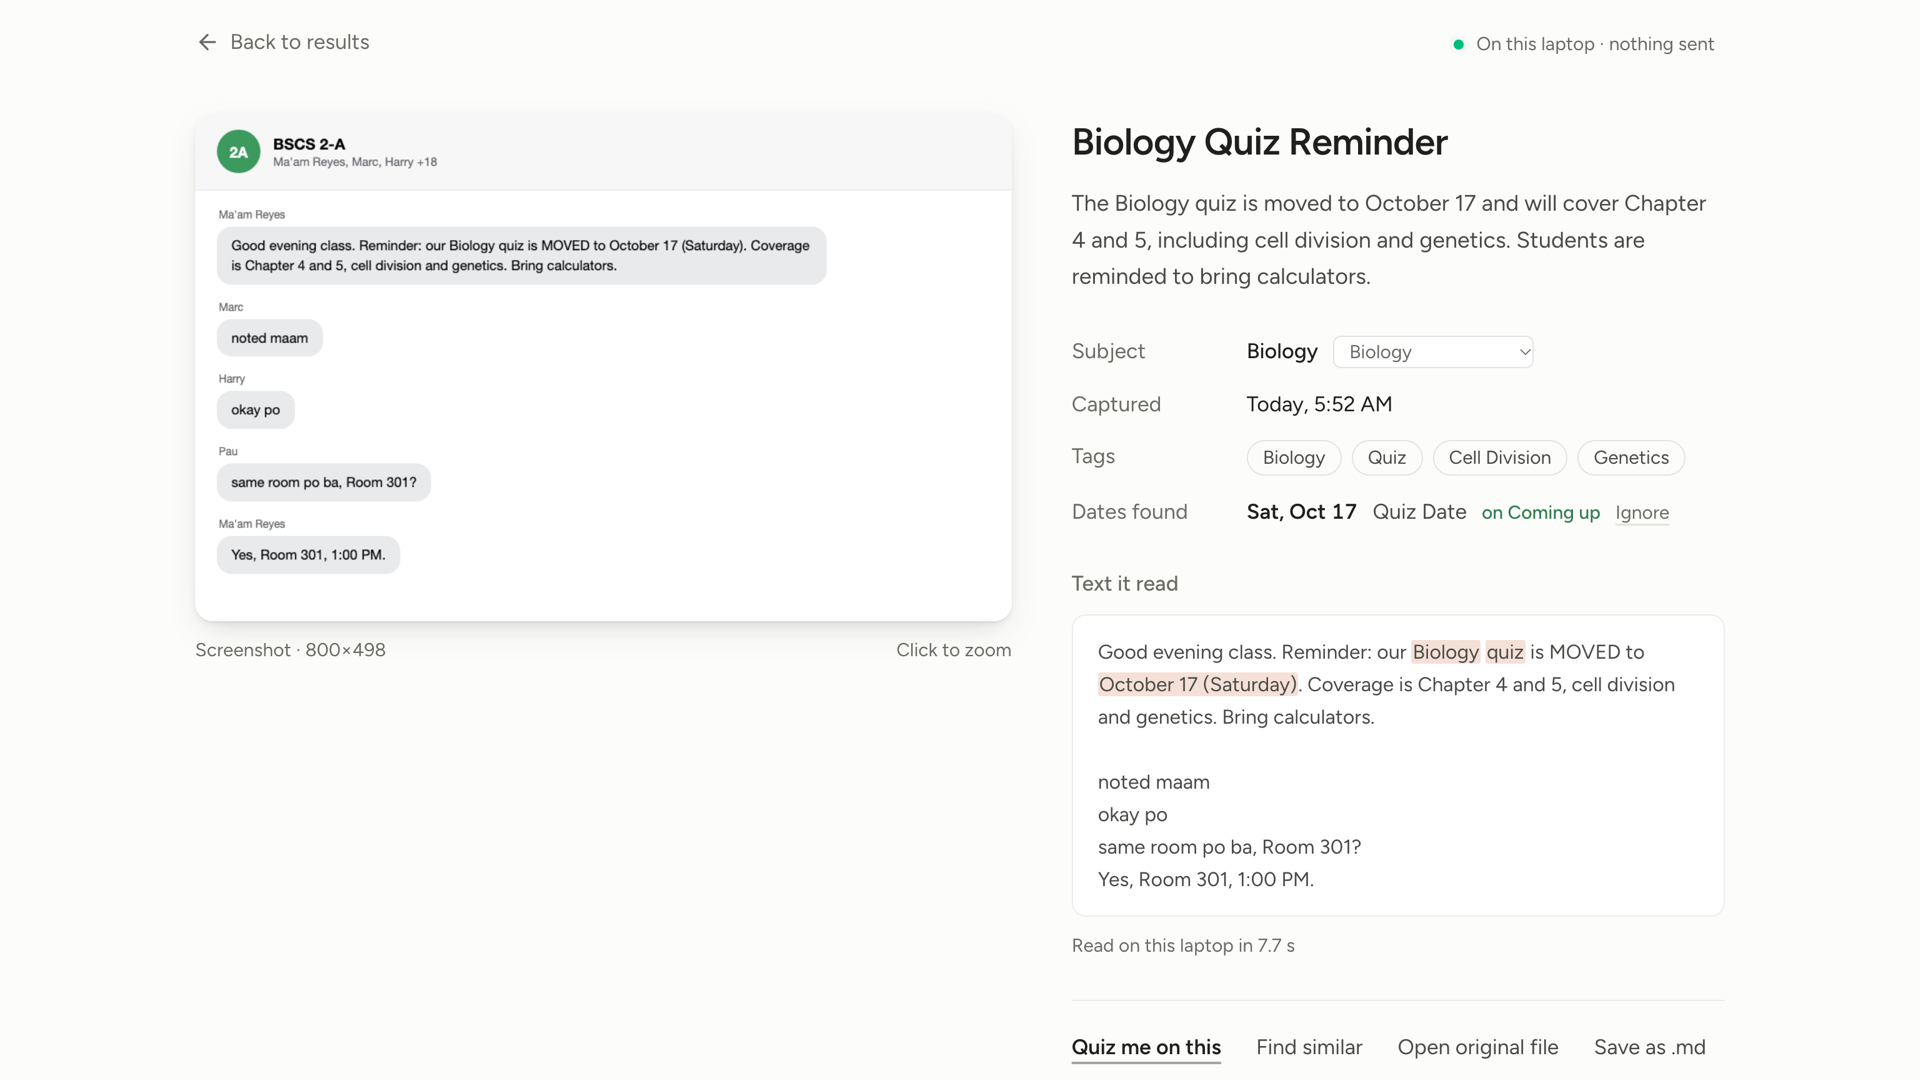
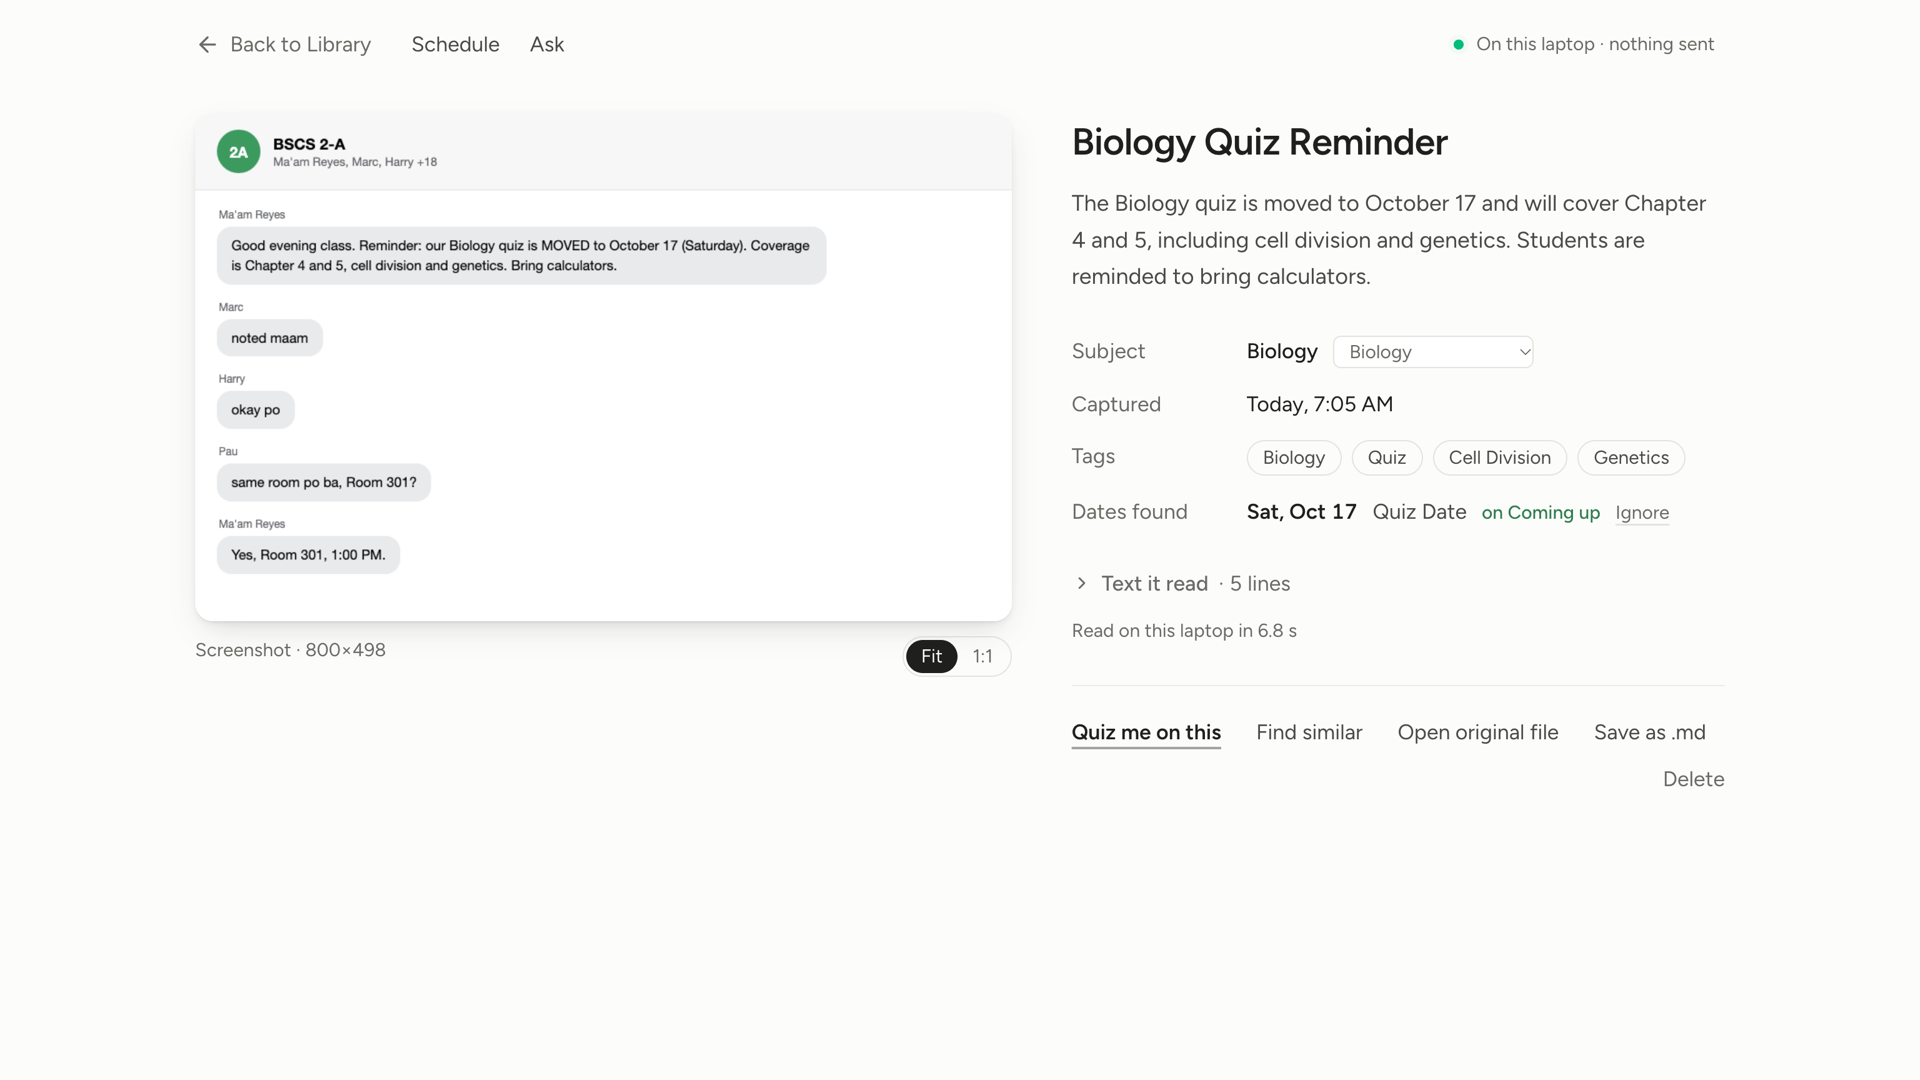
docs(readme): re-shoot screenshots on the UX round; add Schedule and Ask (2×2)
The Document view's local file path is masked in the screenshot.

diff --git a/README.md b/README.md
@@ -19,7 +19,9 @@ AppBuildersPH Hackathon 2026 entry. Theme: Local AI.
 
 | Library | Document view |
 |---|---|
-| ![Library: documents filed by subject, with the Coming up strip](docs/screenshots/library.png) | ![Document view: the screenshot beside exactly what was read, its subject, and its date](docs/screenshots/document-view.png) |
+| ![Library: documents filed by subject, with the Coming up strip](docs/screenshots/library.png) | ![Document view: the screenshot beside what was read, its subject, and its date](docs/screenshots/document-view.png) |
+| **Schedule** | **Ask** |
+| ![Schedule: the week from the confirmed timetable](docs/screenshots/schedule.png) | ![Ask: a question answered from your documents, with the source](docs/screenshots/ask.png) |
 
 ## Why local AI
 
